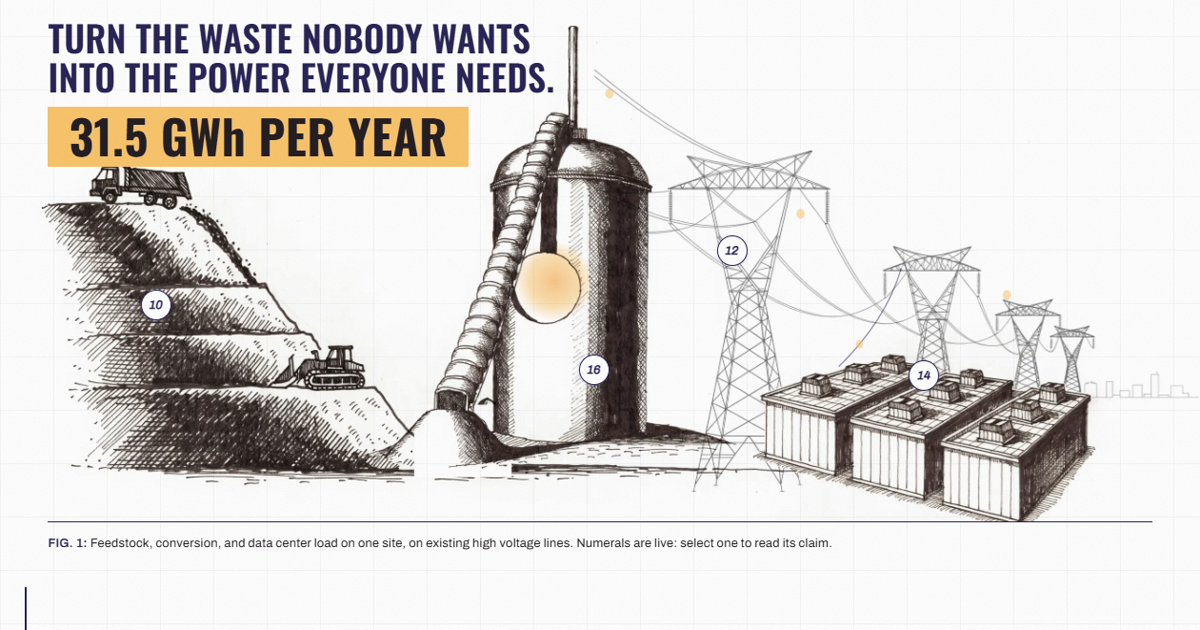
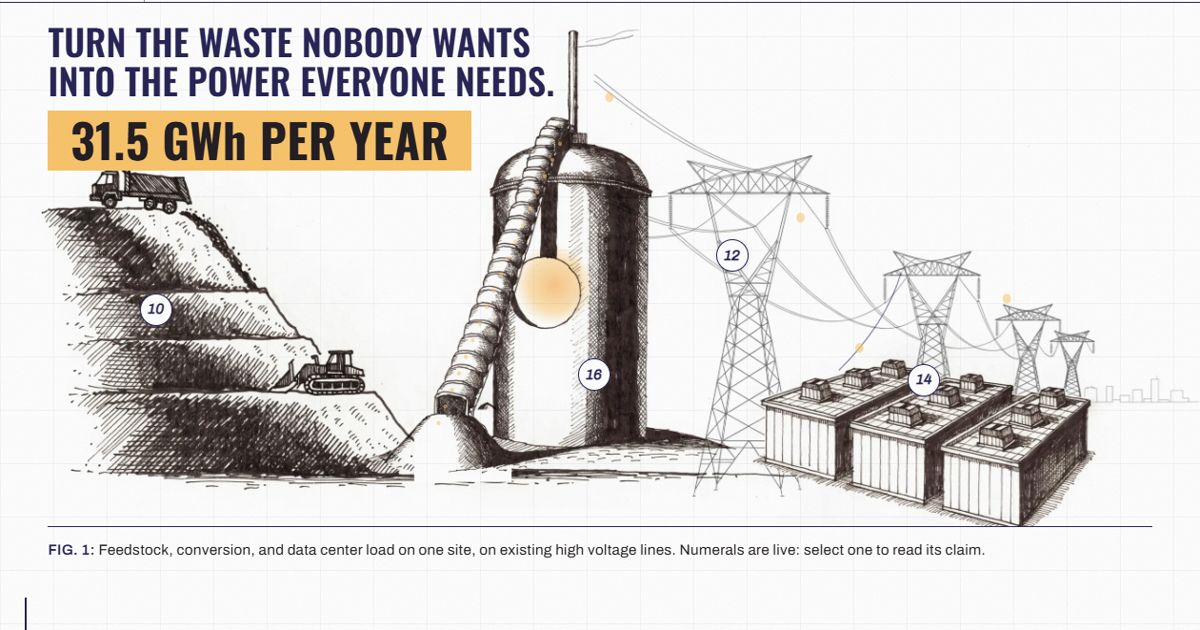
Larger accessible type scale

Changed region(s): [[0.0308, 0.0302, 0.9558, 0.9048], [0.5242, 0.181, 0.555, 0.2111]]

diff --git a/index.html b/index.html
@@ -32,12 +32,12 @@
   --pad:clamp(1rem,4vw,3.5rem);
 }
 *{margin:0;padding:0;box-sizing:border-box}
-html{scroll-behavior:smooth;background:var(--paper)}
+html{scroll-behavior:smooth;background:var(--paper);font-size:17px}
 body{
   background:transparent;
   color:var(--ink);
   font-family:"Archivo",system-ui,sans-serif;
-  font-size:16px;
+  font-size:1rem;
   line-height:1.55;
 }
 /* drafting grid under the whole document */
@@ -66,12 +66,12 @@ img{max-width:100%;height:auto;display:block}
 /* ---------- document lettering ---------- */
 .display{font-family:"Oswald","Arial Narrow",sans-serif;text-transform:uppercase;color:var(--navy)}
 .label{
-  font-size:.72rem;letter-spacing:.09em;text-transform:uppercase;
+  font-size:.8rem;letter-spacing:.09em;text-transform:uppercase;
   color:var(--muted);font-weight:500;
 }
 .ticket{
   display:inline-block;border:1px solid var(--rule-strong);
-  padding:.15rem .55rem .12rem;font-size:.66rem;letter-spacing:.1em;
+  padding:.15rem .55rem .12rem;font-size:.74rem;letter-spacing:.1em;
   text-transform:uppercase;color:var(--muted);font-weight:500;
   background:var(--paper);
 }
@@ -140,7 +140,7 @@ h1{
 .pan-hint{
   position:absolute;right:10px;bottom:12px;z-index:7;display:none;
   background:var(--paper);border:1px solid var(--rule-strong);color:var(--navy);
-  font-size:.62rem;letter-spacing:.14em;text-transform:uppercase;font-weight:600;
+  font-size:.72rem;letter-spacing:.14em;text-transform:uppercase;font-weight:600;
   padding:.3rem .6rem;pointer-events:none;transition:opacity .35s ease-out;
 }
 .pan-hint.off{opacity:0}
@@ -237,12 +237,12 @@ html:not(.js) .reveal-wipe,.reveal-wipe.done{display:none}
   position:absolute;z-index:6;width:270px;background:var(--paper);
   border:1px solid var(--navy);padding:.75rem .9rem .8rem;
   box-shadow:0 8px 22px rgba(41,38,87,.2);
-  font-size:.8rem;line-height:1.5;transform:translate(-50%,-100%);
+  font-size:.9rem;line-height:1.5;transform:translate(-50%,-100%);
 }
 .callout::after{content:"";position:absolute;left:50%;top:100%;width:1.5px;height:40px;background:var(--navy)}
 .callout b{display:block;color:var(--navy);font-weight:600;margin-bottom:.3rem;padding-right:1.2rem}
-.callout .cticket{display:inline-block;border:1px solid var(--rule-strong);padding:.1rem .45rem;font-size:.6rem;letter-spacing:.1em;text-transform:uppercase;color:var(--muted);font-weight:500;margin-bottom:.4rem}
-.callout a{font-weight:600;font-size:.75rem}
+.callout .cticket{display:inline-block;border:1px solid var(--rule-strong);padding:.1rem .45rem;font-size:.78rem;letter-spacing:.1em;text-transform:uppercase;color:var(--muted);font-weight:500;margin-bottom:.4rem}
+.callout a{font-weight:600;font-size:.83rem}
 .callout .cx{position:absolute;top:.15rem;right:.3rem;appearance:none;border:0;background:none;color:var(--muted);font-size:1rem;line-height:1;cursor:pointer;padding:.2rem}
 .callout .cx:hover{color:var(--navy)}
 
@@ -251,7 +251,7 @@ html:not(.js) .reveal-wipe,.reveal-wipe.done{display:none}
 .coords{
   position:fixed;z-index:40;pointer-events:none;display:none;
   background:var(--paper);border:1px solid var(--rule-strong);color:var(--navy);
-  font-size:.64rem;letter-spacing:.14em;font-weight:600;padding:.18rem .5rem;
+  font-size:.72rem;letter-spacing:.14em;font-weight:600;padding:.18rem .5rem;
   font-variant-numeric:tabular-nums;
 }
 .coords.on{display:block}
@@ -268,14 +268,14 @@ html.js .runhead.on{transform:none}
 .rh-mark{font-family:"Oswald",sans-serif;font-weight:600;font-size:.95rem;text-transform:uppercase;letter-spacing:.04em}
 .rh-mark .novo{color:var(--green)}
 .rh-mark .terra{color:var(--navy)}
-.rh-sheet{flex:1;text-align:center;font-size:.7rem;letter-spacing:.14em;text-transform:uppercase;color:var(--muted);font-weight:500;overflow:hidden;text-overflow:ellipsis;white-space:nowrap}
-.runhead a{font-size:.75rem;font-weight:600;white-space:nowrap}
+.rh-sheet{flex:1;text-align:center;font-size:.78rem;letter-spacing:.14em;text-transform:uppercase;color:var(--muted);font-weight:500;overflow:hidden;text-overflow:ellipsis;white-space:nowrap}
+.runhead a{font-size:.83rem;font-weight:600;white-space:nowrap}
 
 /* cyanotype toggle */
 .mode-toggle{
   position:fixed;right:14px;bottom:14px;z-index:31;
   appearance:none;background:var(--paper);border:1px solid var(--navy);color:var(--navy);
-  font-family:"Archivo",sans-serif;font-size:.64rem;letter-spacing:.14em;text-transform:uppercase;
+  font-family:"Archivo",sans-serif;font-size:.72rem;letter-spacing:.14em;text-transform:uppercase;
   font-weight:600;padding:.5rem .75rem;cursor:pointer;
   transition:background .15s ease-out,color .15s ease-out;
 }
@@ -406,7 +406,7 @@ html.js .docbody.spine-done::after{opacity:1}
   position:absolute;transform:translate(-50%,-50%) translate(var(--tx,0px),var(--ty,0px));
   appearance:none;border:1px solid var(--navy);background:var(--paper);
   color:var(--navy);font-family:"Archivo",sans-serif;font-style:italic;
-  font-size:.78rem;font-weight:600;line-height:1;
+  font-size:.88rem;font-weight:600;line-height:1;
   width:2rem;height:2rem;border-radius:50%;
   cursor:pointer;
   box-shadow:0 1px 4px rgba(41,38,87,.22);
@@ -417,7 +417,7 @@ html.js .docbody.spine-done::after{opacity:1}
   content:attr(data-part);
   position:absolute;left:50%;bottom:calc(100% + .5rem);transform:translateX(-50%);
   white-space:nowrap;background:var(--navy);color:var(--paper);
-  font-style:normal;font-weight:500;font-size:.68rem;letter-spacing:.08em;text-transform:uppercase;
+  font-style:normal;font-weight:500;font-size:.76rem;letter-spacing:.08em;text-transform:uppercase;
   padding:.3rem .6rem;opacity:0;pointer-events:none;
   transition:opacity .15s ease-out;
 }
@@ -426,7 +426,7 @@ html.js .docbody.spine-done::after{opacity:1}
   border-top:1.5px solid var(--navy);
   margin:0 var(--pad);
   padding:.8rem 0 2.2rem;
-  font-size:.8rem;color:var(--ink);letter-spacing:.02em;
+  font-size:.9rem;color:var(--ink);letter-spacing:.02em;
 }
 .figcaption b{font-weight:600;color:var(--navy)}
 
@@ -455,7 +455,7 @@ html.js .docbody.spine-done::after{opacity:1}
   font-family:"Oswald",sans-serif;font-weight:600;text-transform:uppercase;
   color:var(--navy);font-size:clamp(1.1rem,2vw,1.5rem);letter-spacing:.05em;
 }
-.strip .tag{justify-content:flex-end;font-size:.72rem;letter-spacing:.14em;color:var(--muted);text-transform:uppercase;font-weight:500;border-left:1px solid var(--rule-strong)}
+.strip .tag{justify-content:flex-end;font-size:.8rem;letter-spacing:.14em;color:var(--muted);text-transform:uppercase;font-weight:500;border-left:1px solid var(--rule-strong)}
 .sheet-body{padding:clamp(1.5rem,3.5vw,3rem) var(--pad) clamp(2rem,4vw,3.5rem)}
 
 /* sheet 2 */
@@ -544,7 +544,7 @@ html.js .claims li.hl .cimg{opacity:1;transform:none}
 .flows dl div{padding:.65rem 0;border-bottom:1px solid var(--rule);display:grid;grid-template-columns:46px 1fr;gap:0 .8rem;align-items:center}
 .micon{width:40px;height:40px;stroke:var(--navy);fill:none;stroke-width:2.5;stroke-linecap:square;stroke-linejoin:miter;grid-row:span 2}
 .flows dl div dt,.flows dl div dd{grid-column:2}
-.flows dt{font-size:.72rem;letter-spacing:.1em;text-transform:uppercase;color:var(--muted);font-weight:500}
+.flows dt{font-size:.8rem;letter-spacing:.1em;text-transform:uppercase;color:var(--muted);font-weight:500}
 .flows dd{font-weight:600;color:var(--ink);font-variant-numeric:tabular-nums;font-size:.98rem}
 .reactor{position:relative}
 .vessel-fig{position:relative}
@@ -568,7 +568,7 @@ html.js .claims li.hl .cimg{opacity:1;transform:none}
   .reactor .core-glow{animation:none;opacity:.75}
   html{scroll-behavior:auto}
 }
-.machine-caption{margin-top:1.4rem;text-align:center;font-size:.8rem;color:var(--ink)}
+.machine-caption{margin-top:1.4rem;text-align:center;font-size:.9rem;color:var(--ink)}
 .machine-caption b{font-weight:600;color:var(--navy)}
 
 /* sheet 5 table */
@@ -576,14 +576,14 @@ html.js .claims li.hl .cimg{opacity:1;transform:none}
 .spec caption{text-align:left;padding-bottom:.9rem;font-size:.95rem;color:var(--ink);max-width:75ch}
 .spec th{
   font-family:"Oswald",sans-serif;text-transform:uppercase;letter-spacing:.1em;
-  font-weight:600;color:var(--navy);font-size:.85rem;text-align:left;
+  font-weight:600;color:var(--navy);font-size:.92rem;text-align:left;
   border-top:1.5px solid var(--navy);border-bottom:1px solid var(--rule-strong);
   padding:.65rem .75rem;
 }
 .spec td{border-bottom:1px solid var(--rule);padding:.6rem .75rem;vertical-align:top}
-.spec td:first-child{color:var(--muted);font-size:.85rem;letter-spacing:.03em;width:38%}
+.spec td:first-child{color:var(--muted);font-size:.92rem;letter-spacing:.03em;width:38%}
 .spec td:last-child{font-weight:600}
-.footnote{margin-top:1.1rem;font-size:.78rem;color:var(--muted);max-width:80ch}
+.footnote{margin-top:1.1rem;font-size:.88rem;color:var(--muted);max-width:80ch}
 
 /* machine entrance: inputs, then the vessel and core note, then outputs (desktop only) */
 @media (min-width:1001px) and (prefers-reduced-motion:no-preference){
@@ -596,7 +596,7 @@ html.js .claims li.hl .cimg{opacity:1;transform:none}
 .core-note{
   position:relative;width:min(22rem,92%);margin:0 auto 1.4rem;
   background:var(--paper);border:1px solid var(--navy);
-  padding:.8rem 1rem .85rem;font-size:.78rem;line-height:1.5;
+  padding:.8rem 1rem .85rem;font-size:.88rem;line-height:1.5;
   box-shadow:0 8px 22px rgba(41,38,87,.14);
   scroll-margin-top:6rem;
   transition:background .4s ease-out;
@@ -621,20 +621,20 @@ html.js .claims li.hl .cimg{opacity:1;transform:none}
 .siteplan svg{width:100%;height:auto;display:block}
 .siteplan text{font-family:"Archivo",sans-serif;font-weight:600;letter-spacing:.14em;fill:var(--muted);text-transform:uppercase}
 .siteplan .lbl-navy{fill:var(--navy)}
-.siteplan-caption{margin-top:.9rem;font-size:.8rem}
+.siteplan-caption{margin-top:.9rem;font-size:.9rem}
 .siteplan-caption b{font-weight:600;color:var(--navy)}
 
 /* sheet 6 plates */
 .plates{display:grid;grid-template-columns:1fr 1fr;gap:clamp(1.5rem,3.5vw,3rem)}
 .plate figure{border:1px solid var(--rule-strong);padding:1rem}
 .plate img{width:100%;height:auto}
-.plate figcaption{padding-top:.8rem;font-size:.76rem;letter-spacing:.08em;text-transform:uppercase;color:var(--ink);font-weight:500}
+.plate figcaption{padding-top:.8rem;font-size:.84rem;letter-spacing:.08em;text-transform:uppercase;color:var(--ink);font-weight:500}
 .plate figcaption b{color:var(--navy)}
 .plate-stats{display:grid;grid-template-columns:1fr 1fr;border-top:1.5px solid var(--navy);border-bottom:1px solid var(--rule);margin-top:1rem}
 .plate-stats>div{padding:.6rem .8rem .7rem;border-right:1px solid var(--rule)}
 .plate-stats>div:last-child{border-right:0}
 .plate-stats b{display:block;font-family:"Oswald",sans-serif;font-weight:600;color:var(--navy);font-size:1.1rem;text-transform:uppercase;letter-spacing:.03em}
-.plate-stats span{font-size:.72rem;color:var(--muted);line-height:1.45;display:block;margin-top:.2rem}
+.plate-stats span{font-size:.8rem;color:var(--muted);line-height:1.45;display:block;margin-top:.2rem}
 .plate .ticket{margin-top:.9rem}
 
 /* printed-only filing stamp */
@@ -660,20 +660,20 @@ html.blueprint .portrait img{filter:grayscale(1) brightness(1.05);mix-blend-mode
   font-family:"Oswald",sans-serif;text-transform:uppercase;color:var(--navy);
   font-weight:600;font-size:1.35rem;letter-spacing:.05em;
 }
-.applicant .role{font-size:.72rem;letter-spacing:.14em;text-transform:uppercase;color:var(--muted);font-weight:500;margin:.2rem 0 1rem}
+.applicant .role{font-size:.8rem;letter-spacing:.14em;text-transform:uppercase;color:var(--muted);font-weight:500;margin:.2rem 0 1rem}
 .applicant .leadline{font-size:1.02rem;max-width:58ch;margin-bottom:1.3rem}
 .applicant .leadline b{color:var(--navy);font-weight:600}
 .cred-tiles{display:grid;grid-template-columns:repeat(4,1fr);border-top:1.5px solid var(--navy);border-bottom:1px solid var(--rule);margin-bottom:1.3rem}
 .cred-tiles>div{padding:.8rem .9rem .9rem;border-right:1px solid var(--rule)}
 .cred-tiles>div:last-child{border-right:0}
 .cred-tiles b{display:block;font-family:"Oswald",sans-serif;font-weight:600;color:var(--navy);font-size:1.15rem;text-transform:uppercase;letter-spacing:.03em}
-.cred-tiles span{font-size:.72rem;color:var(--muted);line-height:1.45;display:block;margin-top:.25rem}
+.cred-tiles span{font-size:.8rem;color:var(--muted);line-height:1.45;display:block;margin-top:.25rem}
 .record{list-style:none}
-.record li{display:grid;grid-template-columns:11.5rem 1fr;gap:1rem;padding:.7rem 0;border-bottom:1px solid var(--rule);font-size:.88rem}
-.record li b{font-weight:600;color:var(--navy);font-size:.78rem;letter-spacing:.08em;text-transform:uppercase;line-height:1.5}
+.record li{display:grid;grid-template-columns:11.5rem 1fr;gap:1rem;padding:.7rem 0;border-bottom:1px solid var(--rule);font-size:.95rem}
+.record li b{font-weight:600;color:var(--navy);font-size:.88rem;letter-spacing:.08em;text-transform:uppercase;line-height:1.5}
 .affil{margin-top:1.1rem;display:flex;flex-wrap:wrap;gap:.45rem}
 .applicant--second{border-left:1px solid var(--rule-strong);padding-left:clamp(1.5rem,3vw,2.75rem)}
-.applicant--second p{font-size:.92rem;margin:0 0 .9rem;max-width:48ch}
+.applicant--second p{font-size:.96rem;margin:0 0 .9rem;max-width:48ch}
 .applicant--second .affil{margin-top:.9rem}
 
 /* sheet 8 correspondence */
@@ -685,8 +685,8 @@ html.blueprint .portrait img{filter:grayscale(1) brightness(1.05);mix-blend-mode
   max-width:19rem;
 }
 .seal .s1{font-family:"Oswald",sans-serif;font-weight:600;text-transform:uppercase;font-size:1.3rem;letter-spacing:.06em}
-.seal .s2{font-size:.74rem;letter-spacing:.16em;text-transform:uppercase;font-weight:500;border-top:1px solid var(--navy);margin-top:.5rem;padding-top:.5rem}
-.seal .s3{font-size:.7rem;letter-spacing:.3em;text-transform:uppercase;font-weight:600;margin-top:.45rem}
+.seal .s2{font-size:.82rem;letter-spacing:.16em;text-transform:uppercase;font-weight:500;border-top:1px solid var(--navy);margin-top:.5rem;padding-top:.5rem}
+.seal .s3{font-size:.78rem;letter-spacing:.3em;text-transform:uppercase;font-weight:600;margin-top:.45rem}
 .corr{max-width:75ch}
 .corr p{margin-bottom:1.1rem;max-width:62ch}
 .corr .field{
@@ -694,7 +694,7 @@ html.blueprint .portrait img{filter:grayscale(1) brightness(1.05);mix-blend-mode
   border-bottom:1px solid var(--rule-strong);
   padding:.7rem 0;font-size:.95rem;max-width:36rem;
 }
-.corr .field span:first-child{color:var(--muted);font-size:.72rem;letter-spacing:.12em;text-transform:uppercase;align-self:center;font-weight:500}
+.corr .field span:first-child{color:var(--muted);font-size:.8rem;letter-spacing:.12em;text-transform:uppercase;align-self:center;font-weight:500}
 .corr .field span:last-child{font-weight:600}
 .corr-cta{
   display:inline-block;margin-top:1.8rem;background:var(--amber);
@@ -711,7 +711,7 @@ html.blueprint .portrait img{filter:grayscale(1) brightness(1.05);mix-blend-mode
   border-top:1.5px solid var(--navy);
   padding:1.2rem var(--pad) 2.5rem;
 }
-.endblock .smallprint{font-size:.75rem;color:var(--muted);max-width:90ch;line-height:1.6}
+.endblock .smallprint{font-size:.83rem;color:var(--muted);max-width:90ch;line-height:1.6}
 .endblock .smallprint p{margin-bottom:.5rem}
 .endrow{display:flex;justify-content:space-between;gap:1rem;flex-wrap:wrap;margin-bottom:1.4rem}
 .endrow .label b{color:var(--navy)}
